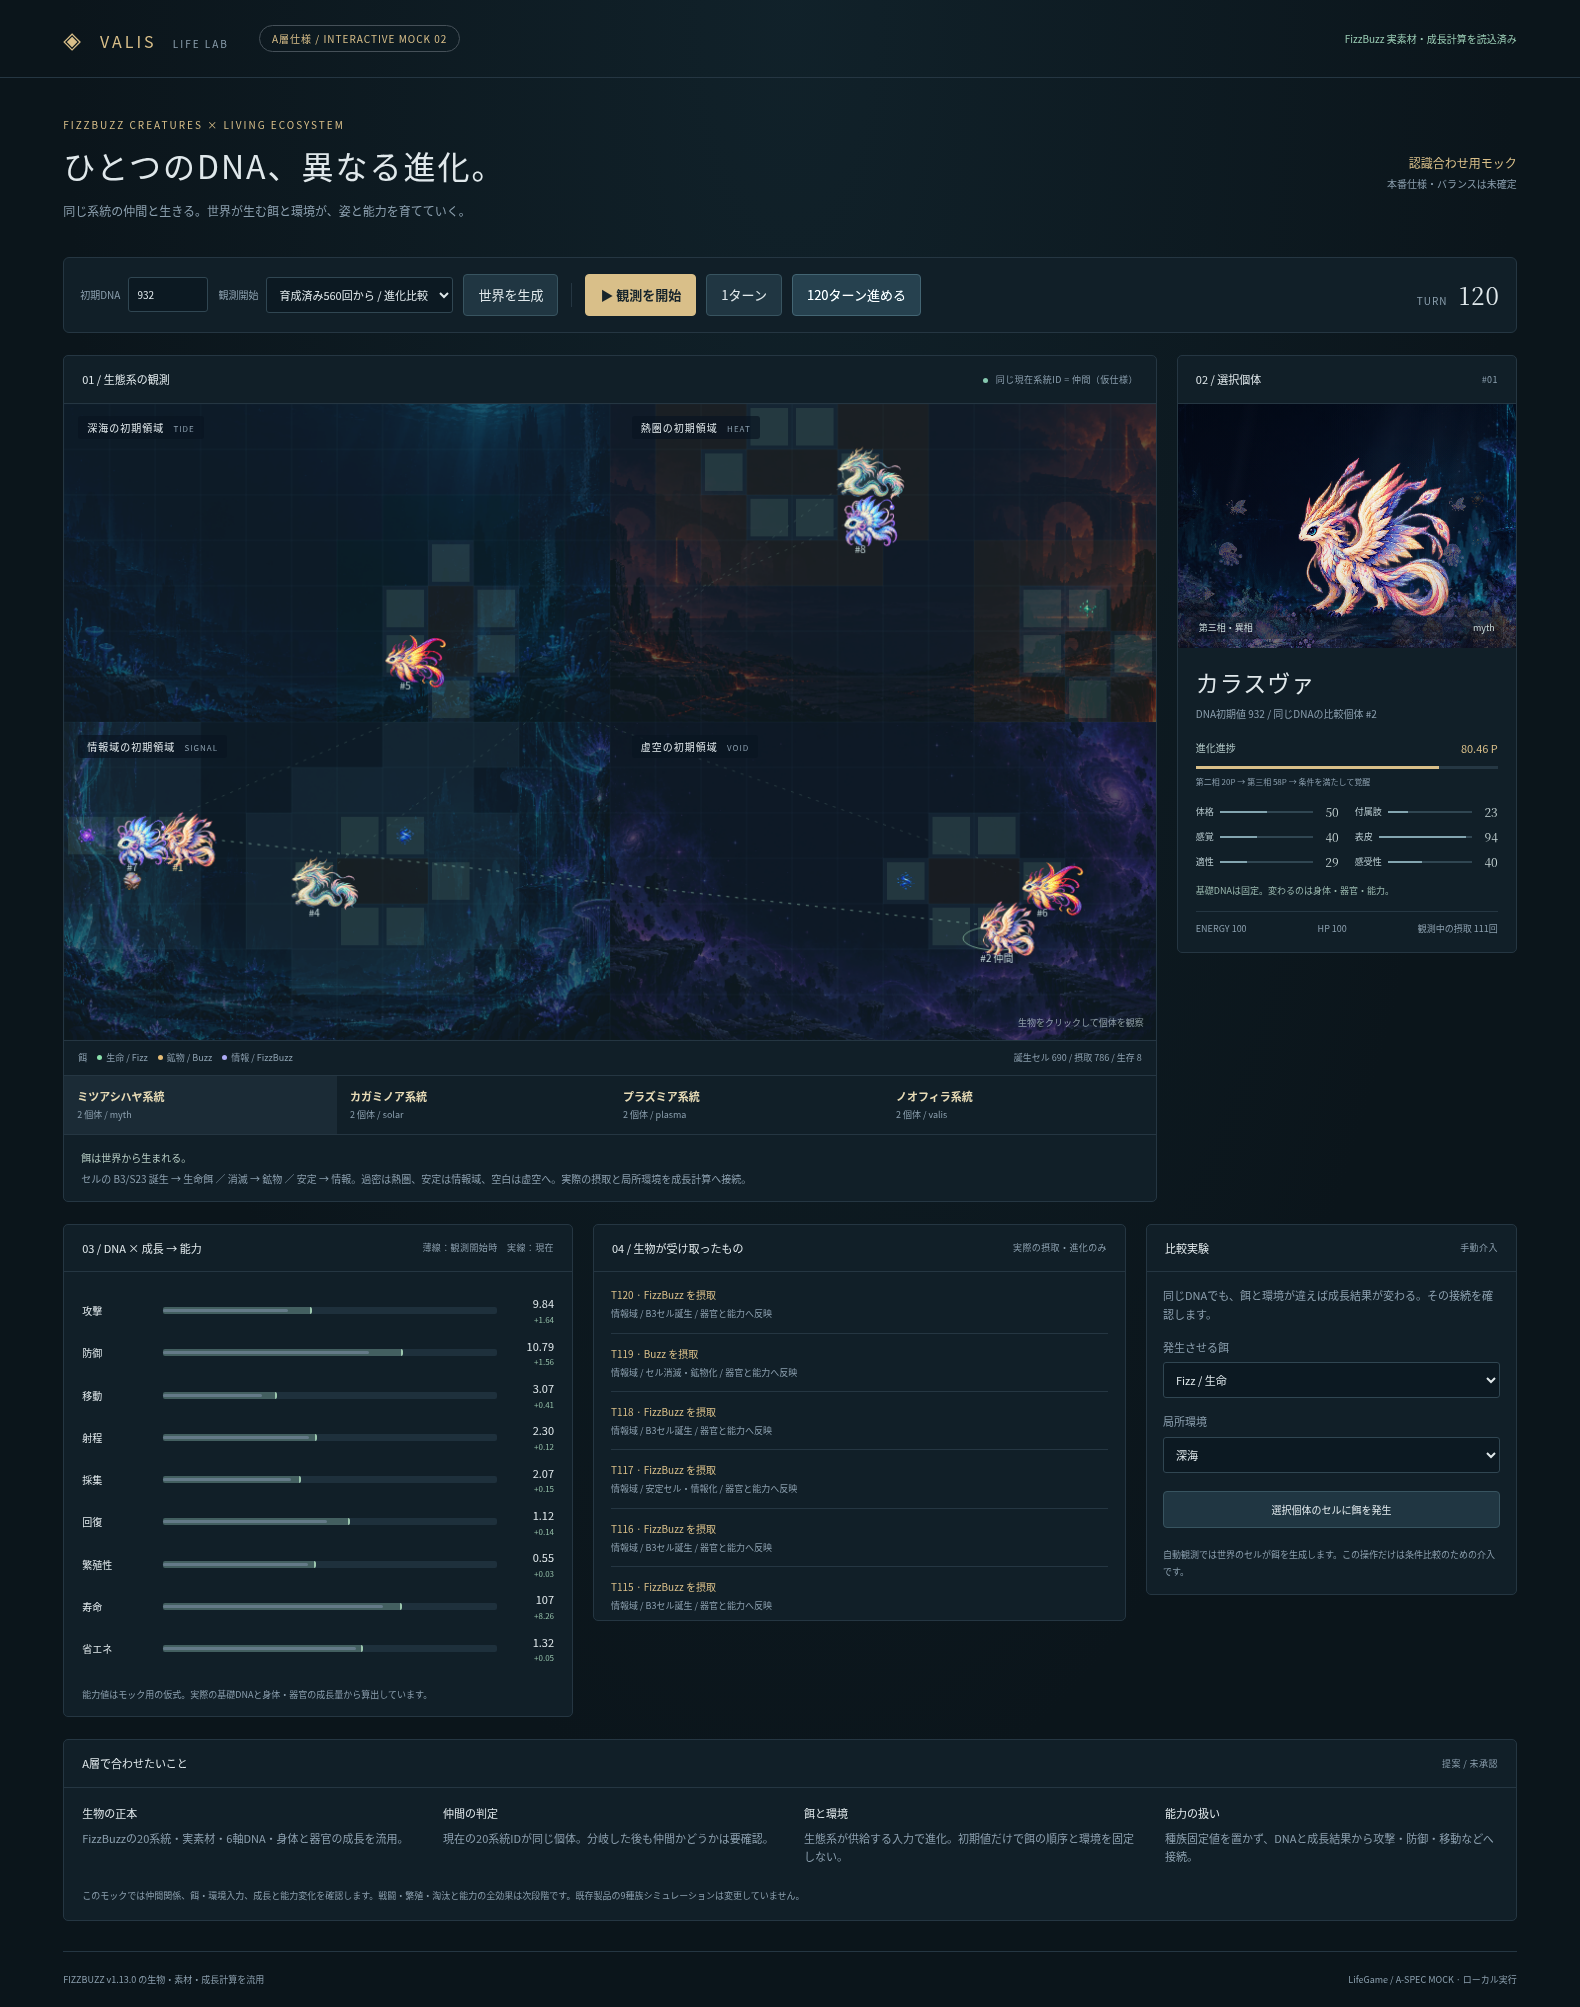
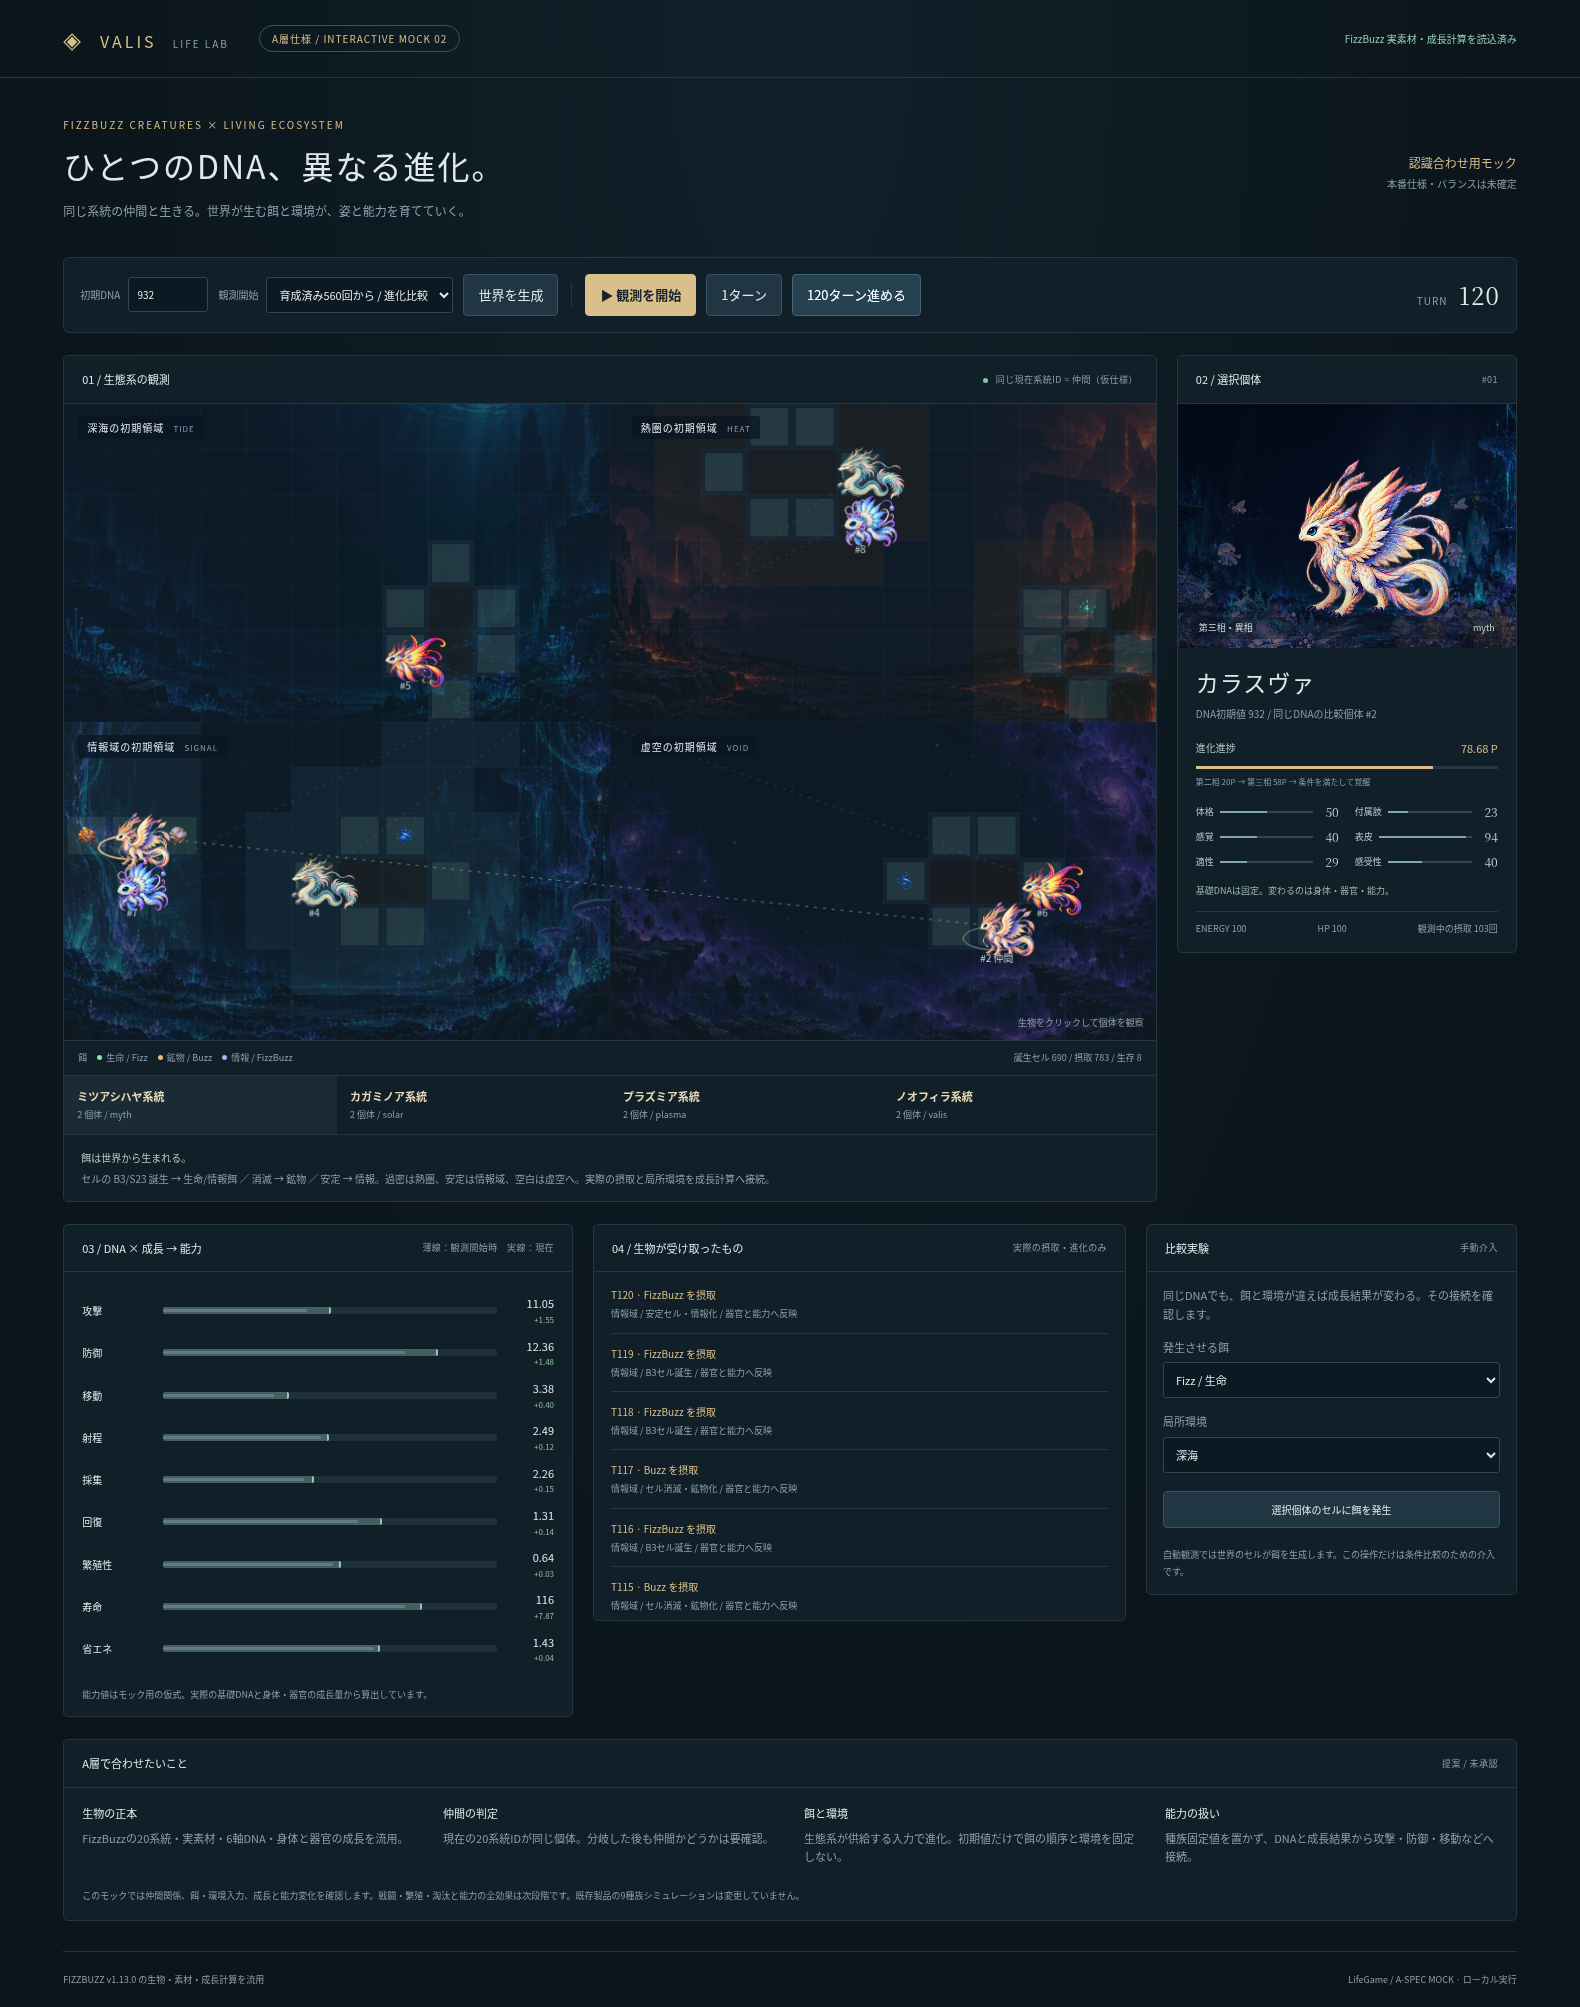
Connect environment-driven organ development to mock abilities

diff --git a/lifegame-desktop/design/ecosystem-mock/index.html b/lifegame-desktop/design/ecosystem-mock/index.html
@@ -3,7 +3,7 @@
 <main><div class="intro"><div><p class="eyebrow">FIZZBUZZ CREATURES × LIVING ECOSYSTEM</p><h1>ひとつのDNA、異なる進化。</h1><p>同じ系統の仲間と生きる。世界が生む餌と環境が、姿と能力を育てていく。</p></div><div class="scope">認識合わせ用モック<br><small>本番仕様・バランスは未確定</small></div></div>
 <div class="toolbar"><label>初期DNA <input id="seed" type="number" value="932" min="1" max="1000"></label><label>観測開始 <select id="origin"><option value="prepared">育成済み560回から / 進化比較</option><option value="birth">出生から / 成長の始まり</option></select></label><button id="reset">世界を生成</button><div class="divider"></div><button class="primary" id="play" disabled>▶ 観測を開始</button><button id="step" disabled>1ターン</button><button id="fast" disabled>120ターン進める</button><span class="turn">TURN <b id="turn">000</b></span></div>
 <div id="error" role="alert"></div>
-<div class="layout"><section class="world"><div class="section-head"><span>01 / 生態系の観測</span><span><i class="dot"></i> 同じ現在系統ID = 仲間（仮仕様）</span></div><div class="map-wrap"><canvas id="map" width="1104" height="644"></canvas><div class="zone-label z1">深海の初期領域 <small>TIDE</small></div><div class="zone-label z2">熱圏の初期領域 <small>HEAT</small></div><div class="zone-label z3">情報域の初期領域 <small>SIGNAL</small></div><div class="zone-label z4">虚空の初期領域 <small>VOID</small></div><span class="map-hint">生物をクリックして個体を観察</span></div><div class="map-footer"><span>餌 <i class="food life"></i>生命 / Fizz <i class="food mineral"></i>鉱物 / Buzz <i class="food info"></i>情報 / FizzBuzz</span><span id="world-stats">—</span></div><div id="population"></div><div class="ca-explain"><strong>餌は世界から生まれる。</strong><span>セルの B3/S23 誕生 → 生命餌 ／ 消滅 → 鉱物 ／ 安定 → 情報。過密は熱圏、安定は情報域、空白は虚空へ。実際の摂取と局所環境を成長計算へ接続。</span></div></section>
+<div class="layout"><section class="world"><div class="section-head"><span>01 / 生態系の観測</span><span><i class="dot"></i> 同じ現在系統ID = 仲間（仮仕様）</span></div><div class="map-wrap"><canvas id="map" width="1104" height="644"></canvas><div class="zone-label z1">深海の初期領域 <small>TIDE</small></div><div class="zone-label z2">熱圏の初期領域 <small>HEAT</small></div><div class="zone-label z3">情報域の初期領域 <small>SIGNAL</small></div><div class="zone-label z4">虚空の初期領域 <small>VOID</small></div><span class="map-hint">生物をクリックして個体を観察</span></div><div class="map-footer"><span>餌 <i class="food life"></i>生命 / Fizz <i class="food mineral"></i>鉱物 / Buzz <i class="food info"></i>情報 / FizzBuzz</span><span id="world-stats">—</span></div><div id="population"></div><div class="ca-explain"><strong>餌は世界から生まれる。</strong><span>セルの B3/S23 誕生 → 生命/情報餌 ／ 消滅 → 鉱物 ／ 安定 → 情報。過密は熱圏、安定は情報域、空白は虚空へ。実際の摂取と局所環境を成長計算へ接続。</span></div></section>
 <aside class="specimen"><div class="section-head"><span>02 / 選択個体</span><span id="specimen-id">#01</span></div><div class="portrait-wrap"><canvas id="portrait" width="540" height="390"></canvas><div class="portrait-meta"><span id="stage">—</span><span id="lineage">—</span></div></div><div class="specimen-body"><h2 id="name">—</h2><p id="identity">—</p><div class="meter-label"><span>進化進捗</span><strong id="growth-value">—</strong></div><div class="progress"><i id="growth"></i></div><p class="phase-note">第二相 20P → 第三相 58P → 条件を満たして覚醒</p><div id="dna"></div><p class="dna-note">基礎DNAは固定。変わるのは身体・器官・能力。</p><div class="energy-line"><span id="energy">—</span><span id="hp">—</span><span id="meals">—</span></div></div></aside></div>
 <div class="lower"><section class="abilities panel"><div class="section-head"><span>03 / DNA × 成長 → 能力</span><span>薄線：観測開始時　実線：現在</span></div><div id="abilities"></div><p class="formula">能力値はモック用の仮式。実際の基礎DNAと身体・器官の成長量から算出しています。</p></section><section class="journey panel"><div class="section-head"><span>04 / 生物が受け取ったもの</span><span>実際の摂取・進化のみ</span></div><div id="trace"></div></section><section class="experiment panel"><div class="section-head"><span>比較実験</span><span>手動介入</span></div><p>同じDNAでも、餌と環境が違えば成長結果が変わる。その接続を確認します。</p><label>発生させる餌<select id="food-kind"><option value="fizz">Fizz / 生命</option><option value="buzz">Buzz / 鉱物</option><option value="fizzbuzz">FizzBuzz / 情報</option></select></label><label>局所環境<select id="env-kind"><option value="tide">深海</option><option value="heat">熱圏</option><option value="signal">情報域</option><option value="void">虚空</option></select></label><button id="feed" disabled>選択個体のセルに餌を発生</button><p class="note">自動観測では世界のセルが餌を生成します。この操作だけは条件比較のための介入です。</p></section></div>
 <section class="spec-proposal panel"><div class="section-head"><span>A層で合わせたいこと</span><span>提案 / 未承認</span></div><div class="proposal-grid"><p><b>生物の正本</b>FizzBuzzの20系統・実素材・6軸DNA・身体と器官の成長を流用。</p><p><b>仲間の判定</b>現在の20系統IDが同じ個体。分岐した後も仲間かどうかは要確認。</p><p><b>餌と環境</b>生態系が供給する入力で進化。初期値だけで餌の順序と環境を固定しない。</p><p><b>能力の扱い</b>種族固定値を置かず、DNAと成長結果から攻撃・防御・移動などへ接続。</p></div><p class="note">このモックでは仲間関係、餌・環境入力、成長と能力変化を確認します。戦闘・繁殖・淘汰と能力の全効果は次段階です。既存製品の9種族シミュレーションは変更していません。</p></section>

diff --git a/lifegame-desktop/design/ecosystem-mock/model.js b/lifegame-desktop/design/ecosystem-mock/model.js
@@ -8,7 +8,8 @@ function same(a,b){return Boolean(a.bio.lineage&&a.bio.lineage===b.bio.lineage);
 function abilities(s){
  const d=s.dna,a=E.appearanceFor(s),g=s.points/100,n=a.anatomy;
  const v=(key)=>n[key]?.growth||0;
- return {attack:+((2+d.body*4+d.appendage*2)*(1+.9*g+.5*v('limb'))).toFixed(2),defense:+((1+d.skin*5)*(1+v('shell'))).toFixed(2),speed:+((1+d.appendage*3)*(1+.8*v('fin'))).toFixed(2),range:+(1+d.senses*2+.5*v('eyes')).toFixed(2),harvest:+(1+d.aptitude*2+.6*g).toFixed(2),regen:+(.2+d.skin*.5+.5*v('shell')).toFixed(2),fertility:+(.3+d.aptitude*.5+.1*v('fin')).toFixed(2),longevity:+(60+d.body*40+30*v('shell')).toFixed(2),efficiency:+((1+d.aptitude*.6)*(1+.15*g)).toFixed(2)};
+ const organs=E.phenotype(s),o=organs.length?organs.reduce((sum,p)=>sum+p.level/3*p.growth,0)/organs.length:0;
+ return {attack:+((2+d.body*4+d.appendage*2)*(1+.9*g+.5*v('limb')+.3*o)).toFixed(2),defense:+((1+d.skin*5)*(1+v('shell')+.3*o)).toFixed(2),speed:+((1+d.appendage*3)*(1+.8*v('fin')+.2*o)).toFixed(2),range:+(1+d.senses*2+.5*v('eyes')+.2*o).toFixed(2),harvest:+(1+d.aptitude*2+.6*g+.2*o).toFixed(2),regen:+(.2+d.skin*.5+.5*v('shell')+.2*o).toFixed(2),fertility:+(.3+d.aptitude*.5+.1*v('fin')+.1*o).toFixed(2),longevity:+(60+d.body*40+30*v('shell')+10*o).toFixed(2),efficiency:+((1+d.aptitude*.6)*(1+.15*g+.1*o)).toFixed(2)};
 }
 function create(seed=932,birth=false){
  seed=Number(seed);E.dnaFor(seed);

diff --git a/lifegame-desktop/design/ecosystem-mock/SPEC-PROPOSAL.md b/lifegame-desktop/design/ecosystem-mock/SPEC-PROPOSAL.md
@@ -32,7 +32,7 @@ A本文を更新する前に、以下の責務分割を提案する。B/C/D/Eを
 
 - FizzBuzz v1.13.0 の本物の素材、20系統定義、6軸DNA、外見計算、器官成長、描画を利用。
 - 同じDNAを持つ2個体を4組、計8個体配置。同じ現在系統IDの個体を線と「仲間」で表示。
-- 生態セルのB3/S23による誕生で生命餌、消滅で鉱物、安定で情報餌を発生。世界から食べた実入力だけ成長へ渡す。
+- 生態セルのB3/S23による誕生で生命餌（情報域では情報餌）、消滅で鉱物、安定で情報餌を発生。世界から食べた実入力だけ成長へ渡す。
 - 局所環境は初期4領域とセル活動から生じる。過密なら熱圏、安定セルなら情報域、無近傍なら虚空、その他は初期環境。背景は初期領域、セルの淡い色は現在環境を表す。
 - 育成済み560行から開始して進化前後を比べるモードと、出生から始めるモード。
 - 実際の摂取履歴、受けた環境、DNA不変、身体・器官の成長、能力の観測開始時/現在の差分を表示。
@@ -47,6 +47,8 @@ A本文を更新する前に、以下の責務分割を提案する。B/C/D/Eを
 3食種は原版と同じ意味（Fizz=生命、Buzz=鉱物、FizzBuzz=情報）。能力換算は `model.js` の明示的な仮式であり、原版FizzBuzzに既存の能力値があると主張しない。
 
 ## 能力の仮接続
+
+以下に加え、実際の器官のレベルと発達量による共通補正を加算する。同じDNA・同じ食種でも、環境との適合により器官XPが変わり、能力の差につながる。
 
 - 攻撃：体格・付属肢DNA × 成長進捗・肢の発達
 - 防御：表皮DNA × 甲殻の発達
